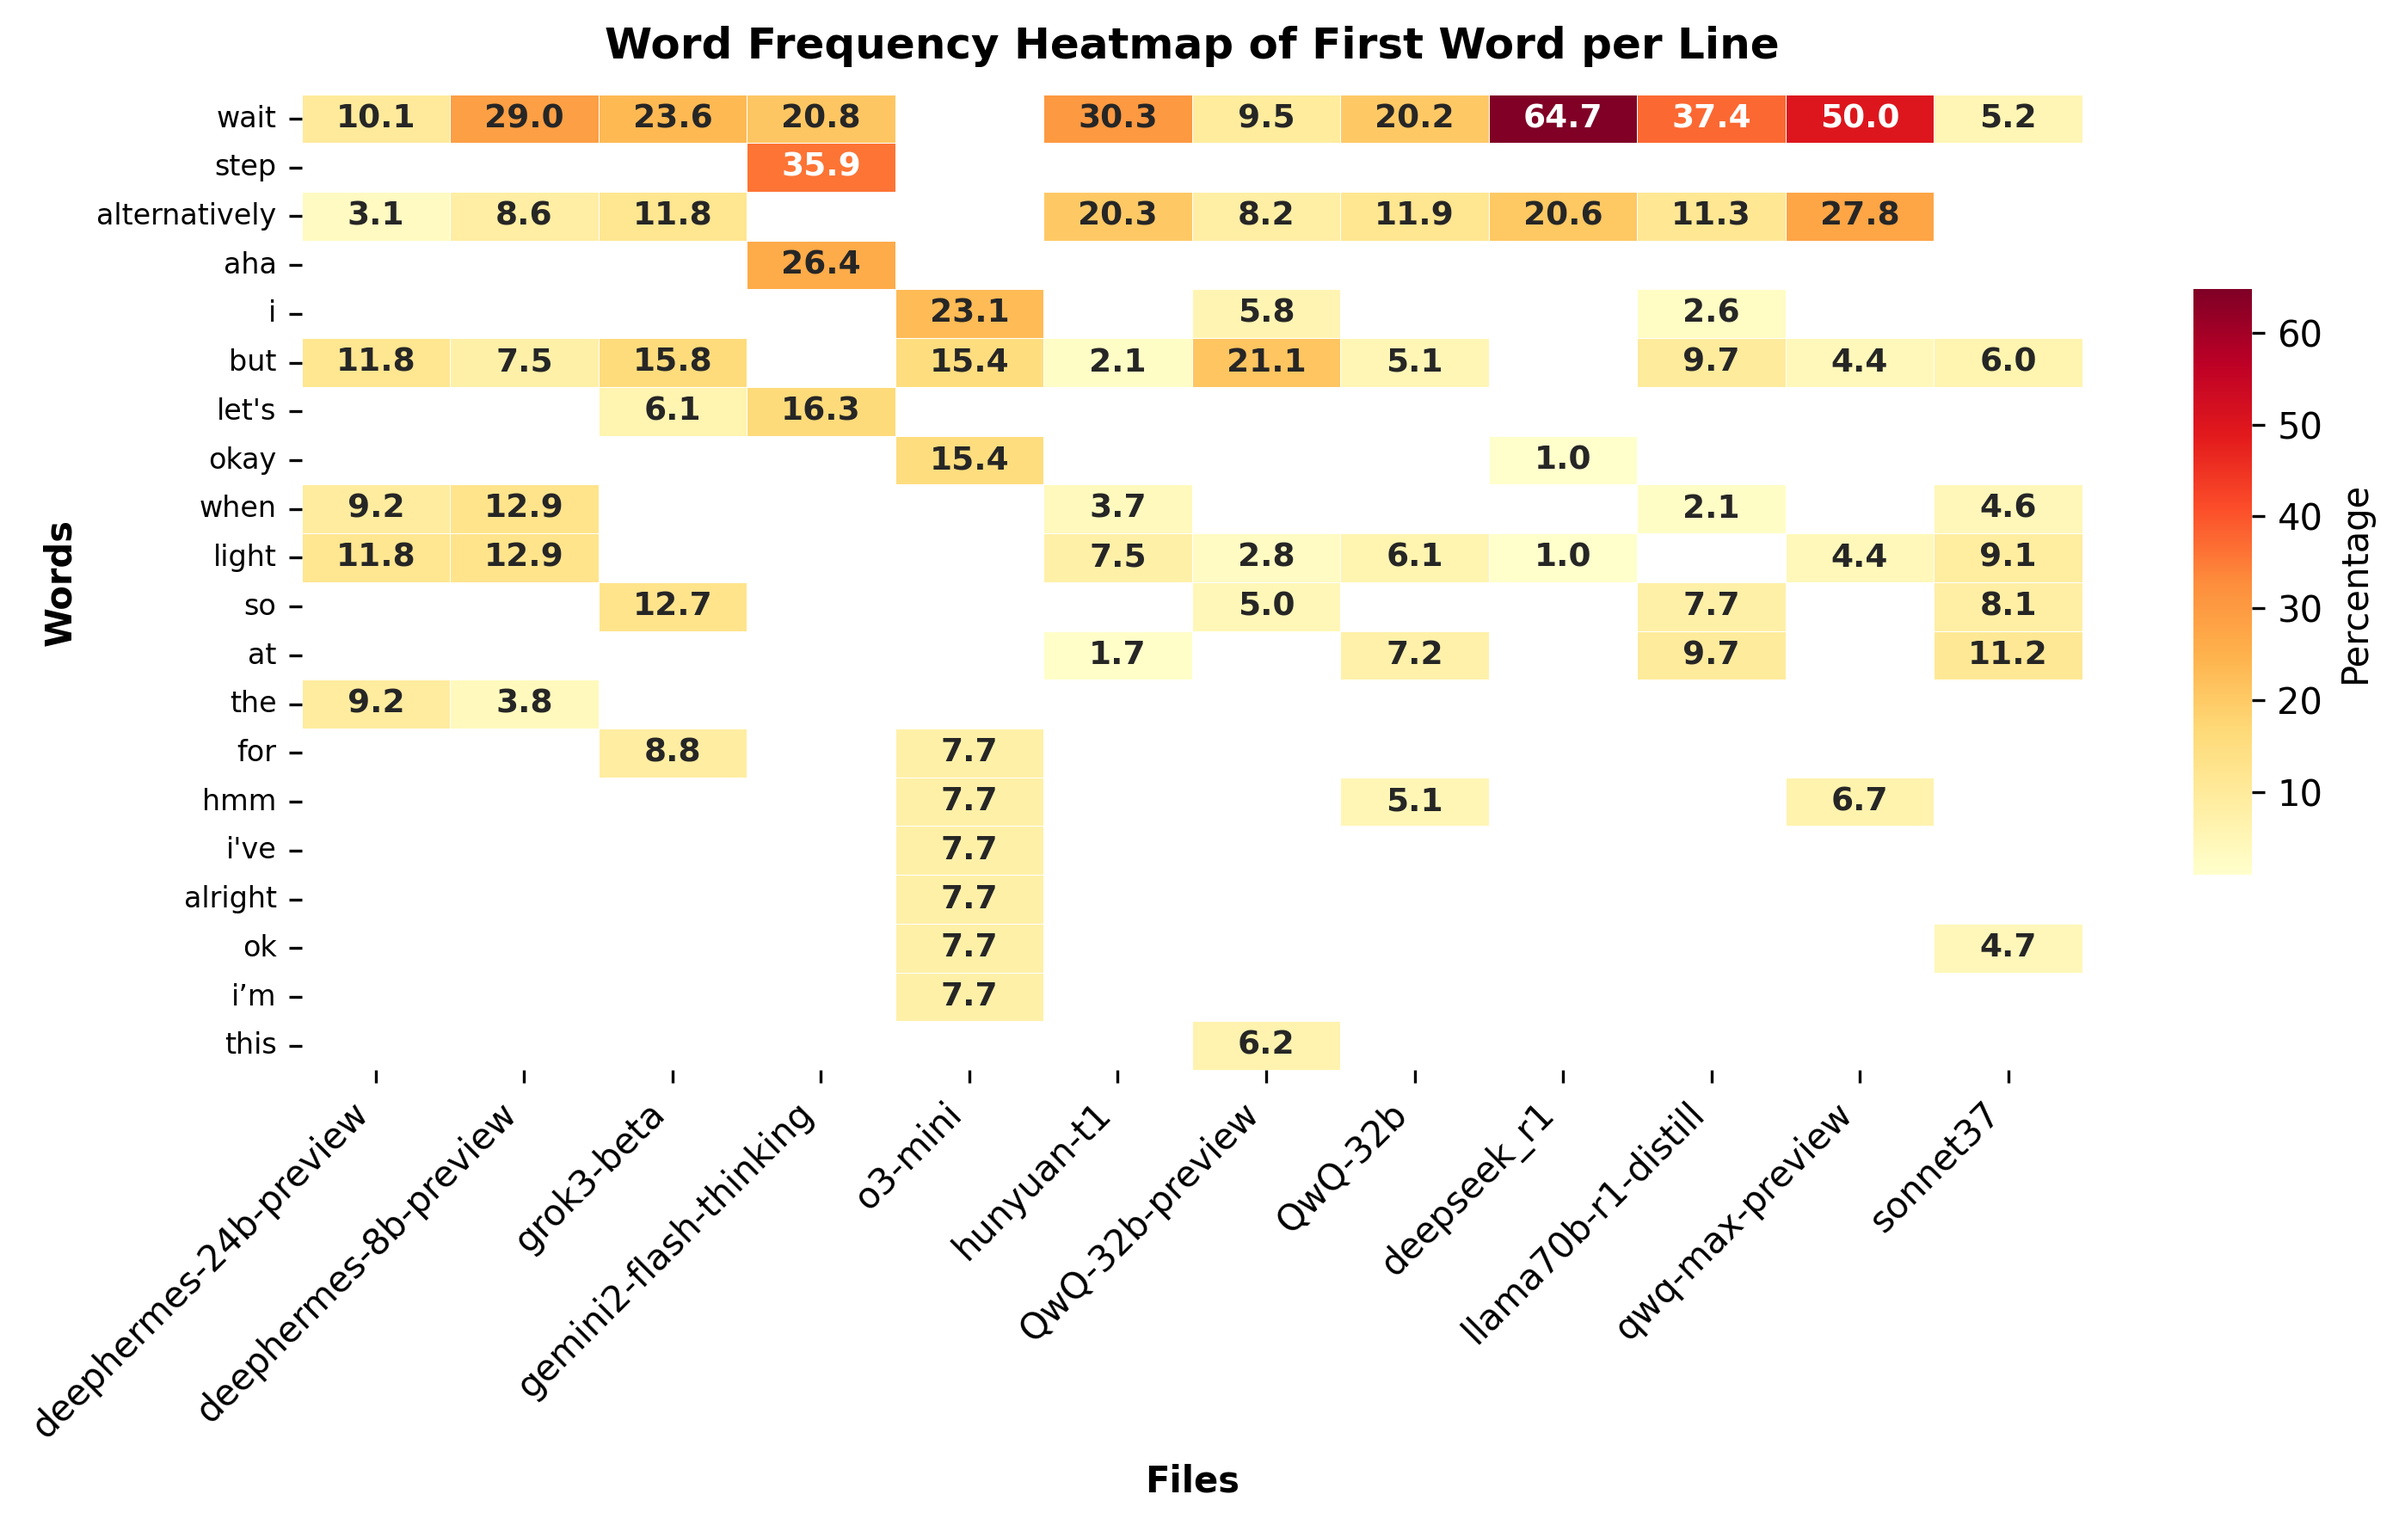
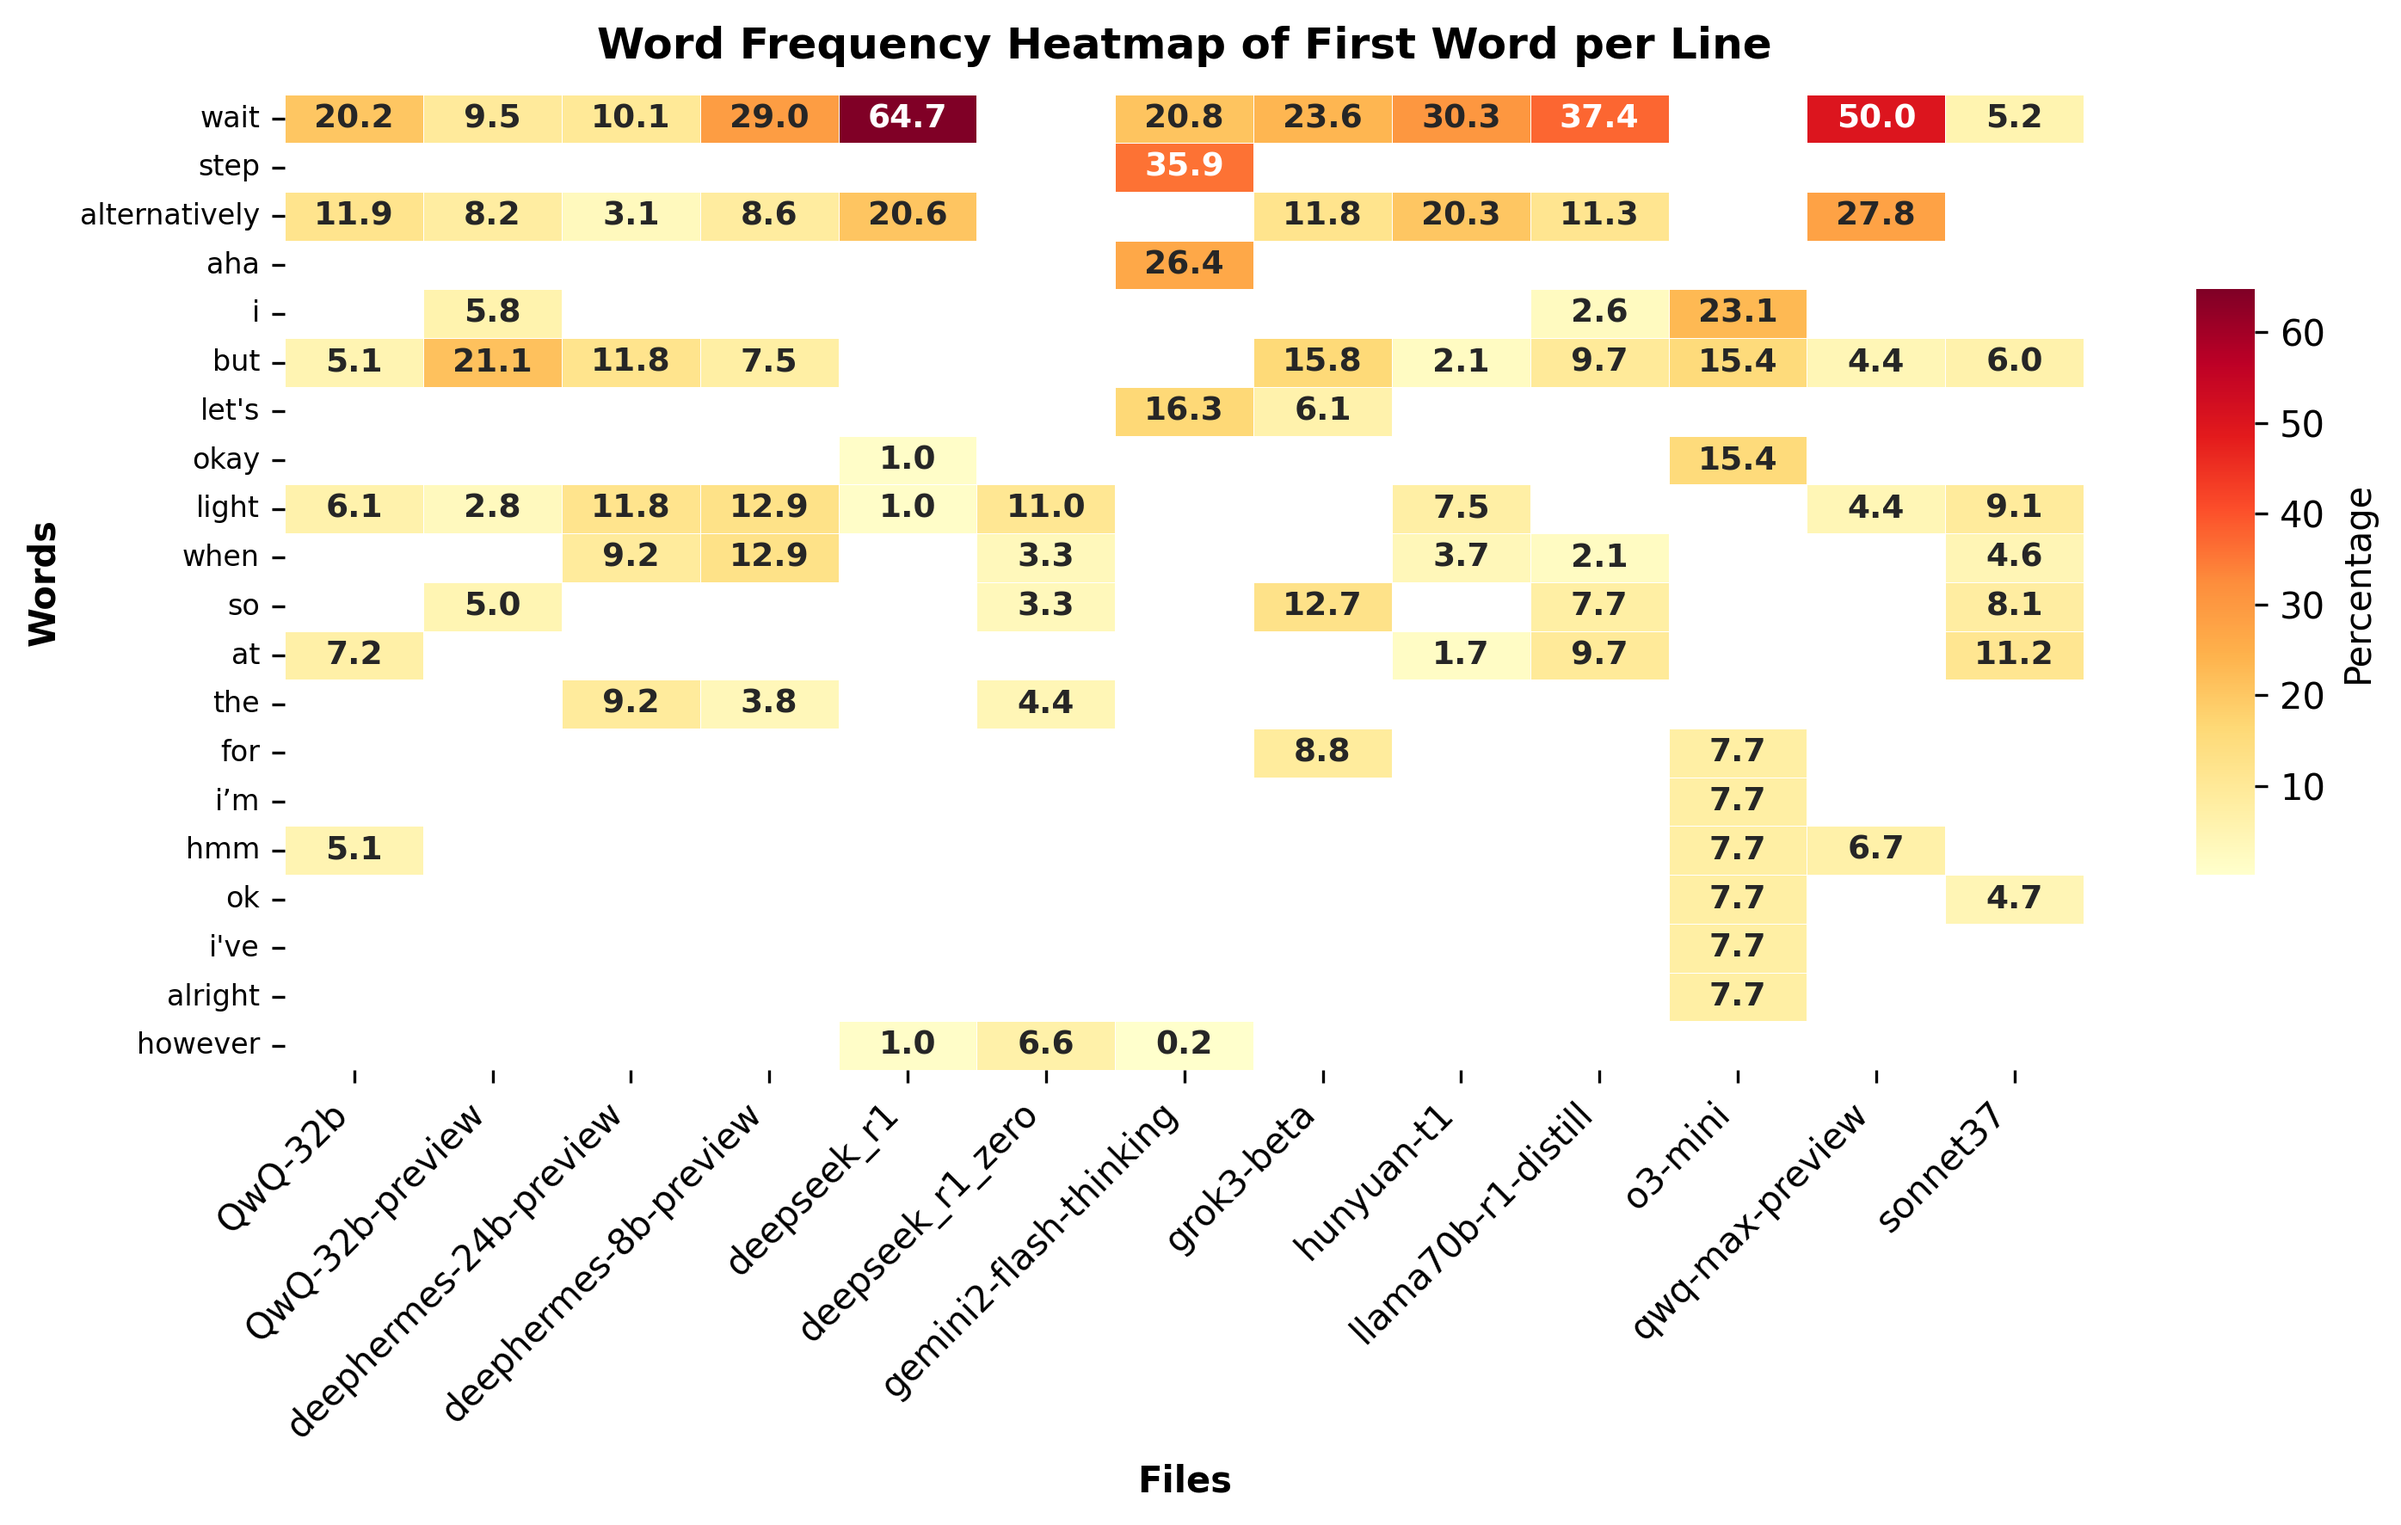
Update word frequency heatmap image and enhance README for clarity and insights

diff --git a/thinkingtraces/extract.py b/thinkingtraces/extract.py
@@ -61,6 +61,9 @@ def print_histograms(file_histograms):
     
     # Take only top 20 rows
     df = df.head(20)
+
+    # sort
+    df = df[sorted(df.columns)]
     
     print("\nComparison Matrix (percentages):")
     print("-" * 40)

diff --git a/thinkingtraces/README.md b/thinkingtraces/README.md
@@ -1,34 +1,32 @@
 # LLM Thinking Trace Analyzer
 
-This tool analyzes word statistics in chain-of-though traces of reasoning large language models. This is an attempt to compare the thinking process between different models.
+This tool analyzes word statistics in chain-of-thought traces of reasoning from large language models. This is an attempt to compare the thinking processes between different models.
 
 ## Background & Purpose
 
-All investigated LLMs were prompted with the prompt below, and the (sometimes partial) reasoning traces were stores as a .txt file to be analyzed.
+All investigated LLMs were prompted with the prompt below, and the (sometimes partial) reasoning traces were stored as .txt files to be analyzed.
 
 > You have two ropes, each of which takes exactly 60 minutes to burn completely. However, the ropes burn unevenly, meaning some parts may burn faster or slower than others. You have no other timing device. How can you measure exactly 20 minutes using these two ropes and matches to light them?
 
 This specific prompt consistently generates long thinking traces across different models. It is an unsolvable logical puzzle, a fact which cannot be deduced logically by most of the current reasoning models.
 
-By analyzing the first word of each line in these reasoning traces, we can identify relationships between different thinking models and potentially reveal insights about training methodologies.
+By analyzing the first word of each line in these reasoning traces, we can identify relationships between different models and potentially reveal insights about training methodologies.
 
 ## Output and Insights
 
 ![Word Frequency Heatmap Example](word_frequency_heatmap.png)
 
-The heatmap colors indicate the frequency percentage of each word appearing as the first word in lines. Brighter colors represent higher percentages. 
+The heatmap colors indicate the frequency percentage of each word appearing as the first word in lines. 
 
-By comparing these patterns, we can infer relationships between different models, their training processes and potentially identify when one the output of one model was used to finetune another.
+By comparing these patterns, we can infer relationships between different models, their training processes, and potentially identify when the output of one model was used to finetuned another.
 
-The analysis of word statistics across various models reveals several interesting patterns:
+The analysis of word statistics across various models reveals several interesting patterns. Certain critical words/tokens like "wait" and "alternatively" emerge and indicate backtracking and other steps in the thinking process. The general assumption is that these critical tokens have already been learned during pre-training and are then amplified by reinforcement learning. 
 
-- Certain words/tokens like "wait", "alternatively" often indicate backtracking in the thinking process
-- These patterns emerge during reinforcement learning and can also be trained by finetuning on suitable thinking trace datasets.
-- Some models show word statistics similar to DeepSeek R1, suggesting that R1 traces may have been used in their training process:
-  - R1 thinking traces could have been used as finetuning data to "transfer" the thinking process
-  - R1 traces might have "jumpstarted" the thinking ability with subsequent reinforcement learning to improve the reasoning process
+The [R1 paper](https://arxiv.org/abs/2501.12948), however, has shown that reinforcement learning on a bare base model does lead to erratic thinking traces (The "R1-Zero" model was generated that way). Instead, R1 was fine-tuned (primed) with prefiltered thinking traces from R1-Zero and other sources before they started with RL. We can see the complete absence of "wait/alternatively" from the R1-Zero trace, so the occurrence of these tokens in R1 is due to the additional finetuning step.
 
-Notable exceptions with different word statistics include: Sonnet, Gemini Flash and o3-mini. This suggests that these models have been trained with different methodologies or datasets. The absence of backtracking tokens like "Wait" or "Alternatively" in o3-mini models may indicate filtering of the output.
+Now, if others are also using R1 traces to finetune their models before reinforcement learning, they'll end up with the same critical tokens, which could explain the statistical similarities we are seeing here. As a caveat, this is based on limited statistics and is rather a hypothesis at this point.
+
+Gemini, Sonnet, and o3-mini use different critical tokens, which may indicate that these models were primed in a different way. Also, the first Qwen-32b-preview, which was trained using a process reward model instead of RLHF, uses different critical tokens (see "but"). Qwen most likely adopted a different reinforcement learning approach for the final version of the model.
 
 ## Usage
 
